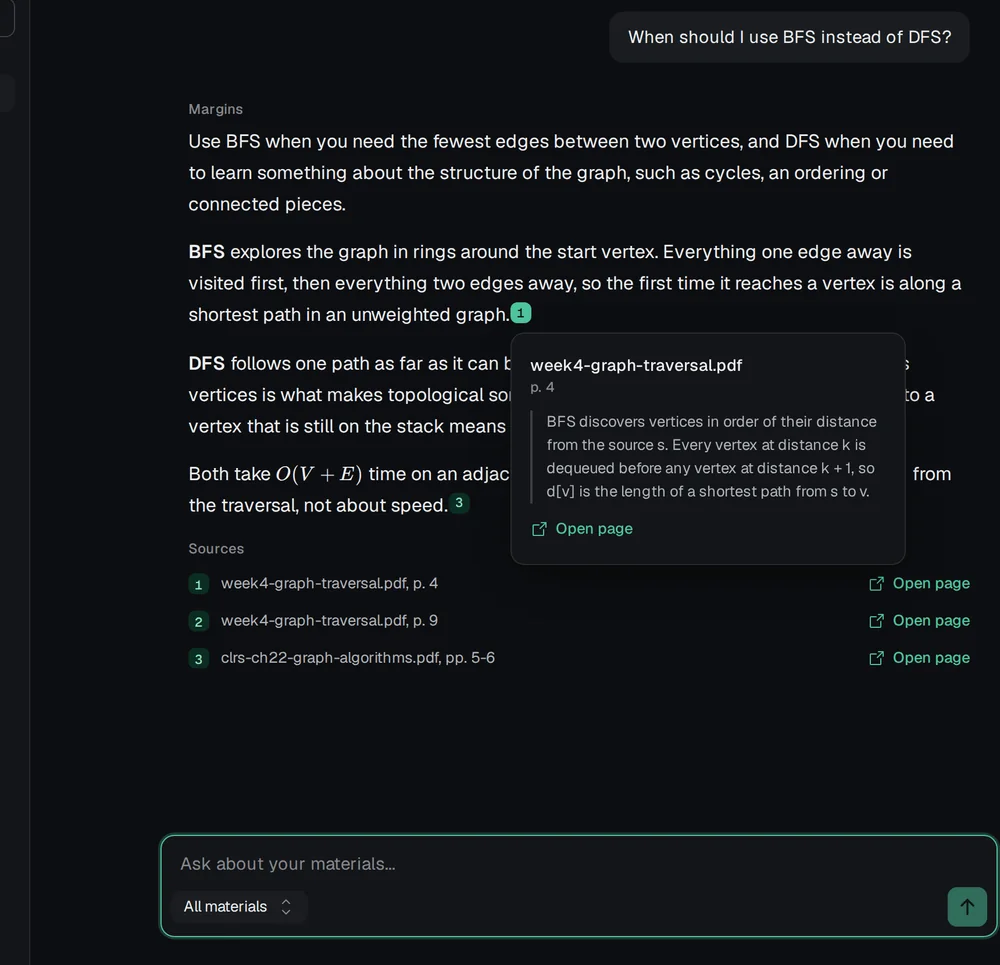
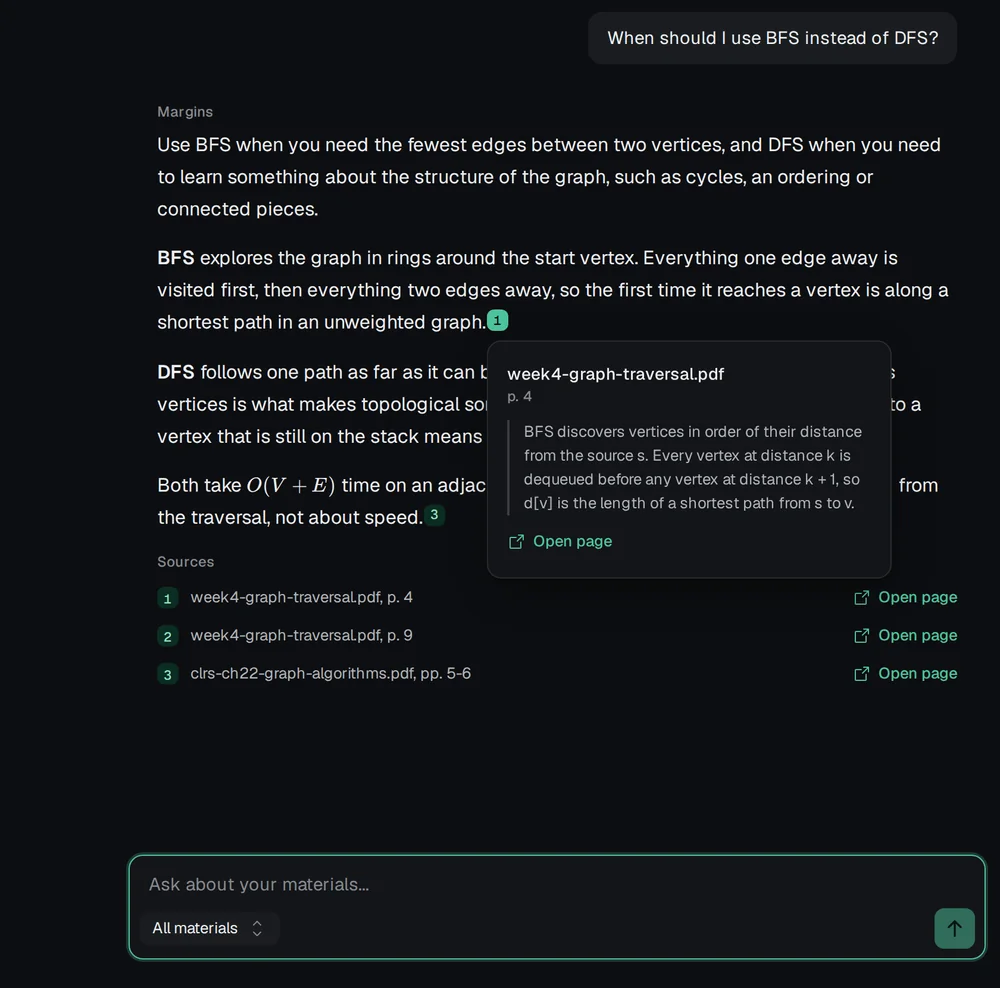
Landing spec, Ask sheet spec, lazy screenshots, font preload

diff --git a/frontend/src/app/(marketing)/page.tsx b/frontend/src/app/(marketing)/page.tsx
@@ -2,6 +2,7 @@ import type { Metadata } from 'next'
 import { BRAND_NAME } from '@/config/brand'
 import { DEFAULT_DESCRIPTION, SITE_URL } from '@/config/site'
 import { FinalCta, HeroActions } from '@/features/marketing/auth-actions'
+import { LazyMount } from '@/features/marketing/lazy-mount'
 import { ThemedImage } from '@/features/marketing/themed-image'
 import '@/features/marketing/landing.css'
 
@@ -51,9 +52,10 @@ function Hero() {
               width={1600}
               height={1000}
               priority
+              fetchPriority="high"
               alt="Margins notes page showing Graph traversal notes with sources"
-              sizes="(max-width: 767px) 640px, (min-width: 1440px) 960px, (min-width: 1280px) 820px, (min-width: 1024px) 700px, 100vw"
-              className="h-auto w-full max-md:w-[640px] max-md:max-w-none"
+              sizes="(min-width: 1440px) 960px, (min-width: 1280px) 820px, (min-width: 1024px) 700px, 100vw"
+              className="h-auto w-full"
             />
           </div>
         </div>
@@ -92,16 +94,16 @@ function HowItWorks() {
             </div>
             {index === 1 ? (
               <div className="md:order-1 md:col-span-7">
-                <div className="overflow-hidden rounded-card border border-border bg-surface">
+                <LazyMount className="aspect-[1100/557] overflow-hidden rounded-card border border-border bg-surface">
                   <ThemedImage
                     name="topics-edit"
                     width={1100}
                     height={557}
                     alt="Margins topic editor listing seven topics found in a course, each with keywords"
-                    sizes="(min-width: 1152px) 640px, (min-width: 768px) 55vw, 100vw"
+                    sizes="(min-width: 1152px) 640px, (min-width: 768px) 55vw, calc(100vw - 34px)"
                     className="h-auto w-full"
                   />
-                </div>
+                </LazyMount>
               </div>
             ) : null}
           </li>
@@ -140,9 +142,9 @@ function CellShot({
 }) {
   return (
     <div className="mt-auto px-6">
-      <div className={`overflow-hidden rounded-t-control border border-b-0 border-border ${heightClass}`}>
+      <LazyMount className={`overflow-hidden rounded-t-control border border-b-0 border-border ${heightClass}`}>
         <ThemedImage name={name} width={width} height={height} alt={alt} sizes={sizes} className="h-auto w-full" />
-      </div>
+      </LazyMount>
     </div>
   )
 }
@@ -164,7 +166,7 @@ function Bento() {
             width={1200}
             height={842}
             alt="Margins notes with a Python code block, an outline of the page and a list of source files"
-            sizes="(min-width: 1152px) 560px, (min-width: 768px) 55vw, 100vw"
+            sizes="(min-width: 1152px) 560px, (min-width: 768px) 55vw, calc(100vw - 82px)"
             heightClass="h-[260px] md:h-[330px]"
           />
         </div>
@@ -175,7 +177,7 @@ function Bento() {
             width={1000}
             height={878}
             alt="Margins practice problem with two solved steps, a hint and an answer box"
-            sizes="(min-width: 1152px) 400px, (min-width: 768px) 40vw, 100vw"
+            sizes="(min-width: 1152px) 400px, (min-width: 768px) 40vw, calc(100vw - 82px)"
             heightClass="h-[260px] md:h-[330px]"
           />
         </div>
@@ -186,7 +188,7 @@ function Bento() {
             width={1000}
             height={885}
             alt="Margins quiz results showing 75 percent, 9 of 12 points, with the answer and explanation for a missed question"
-            sizes="(min-width: 1152px) 400px, (min-width: 768px) 40vw, 100vw"
+            sizes="(min-width: 1152px) 400px, (min-width: 768px) 40vw, calc(100vw - 82px)"
             heightClass="h-[260px] md:h-[360px]"
           />
         </div>
@@ -195,9 +197,9 @@ function Bento() {
           <CellShot
             name="ask"
             width={1000}
-            height={965}
+            height={988}
             alt="Margins answer about BFS and DFS with a citation card showing the quoted passage and its page"
-            sizes="(min-width: 1152px) 560px, (min-width: 768px) 55vw, 100vw"
+            sizes="(min-width: 1152px) 560px, (min-width: 768px) 55vw, calc(100vw - 82px)"
             heightClass="h-[260px] md:h-[360px]"
           />
         </div>
@@ -208,12 +210,14 @@ function Bento() {
               Pick your topics and a time limit, then sit the exam under real conditions. Answers save as you go.
             </p>
           </div>
-          <p
-            aria-hidden="true"
-            className="tabular font-mono text-[72px] font-medium leading-none tracking-[-0.04em] text-accent-soft-fg md:text-[112px]"
-          >
-            41:07
-          </p>
+          <LazyMount className="h-[72px] shrink-0 md:h-[112px] md:w-[400px]">
+            <p
+              aria-hidden="true"
+              className="tabular font-mono text-[72px] font-medium leading-none tracking-[-0.04em] text-accent-soft-fg md:text-right md:text-[112px]"
+            >
+              41:07
+            </p>
+          </LazyMount>
         </div>
       </div>
     </section>

diff --git a/frontend/tests/e2e/landing.spec.ts b/frontend/tests/e2e/landing.spec.ts
@@ -1,0 +1,81 @@
+import { expect, test } from '@playwright/test'
+
+test('the landing page tells the story with real screenshots', async ({ page }) => {
+  const errors: string[] = []
+  page.on('pageerror', (error) => errors.push(error.message))
+  await page.goto('/')
+
+  await expect(page.getByRole('heading', { level: 1, name: 'Turn your course files into a study plan.' })).toBeVisible()
+  await expect(page.getByRole('navigation', { name: 'Account' }).getByRole('link', { name: 'Get started' })).toHaveAttribute('href', '/signup')
+  await expect(page.getByRole('navigation', { name: 'Account' }).getByRole('link', { name: 'Sign in' })).toHaveAttribute('href', '/login')
+
+  // Sections in order, each with its heading.
+  for (const name of ['How it works', 'What you get', 'Explain it out loud', 'Start with one course.']) {
+    await page.getByRole('heading', { level: 2, name }).scrollIntoViewIfNeeded()
+    await expect(page.getByRole('heading', { level: 2, name })).toBeVisible()
+  }
+  await expect(page.getByText('Your files stay in your account. Delete a course and its files go with it.')).toBeVisible()
+
+  // The five bento cells and the three steps.
+  for (const name of [
+    'Notes with sources',
+    'Practice that checks each step',
+    'Quizzes graded with feedback',
+    'Ask your materials, with citations',
+    'Mock exams with a real timer',
+  ]) {
+    await expect(page.getByRole('heading', { level: 3, name })).toBeVisible()
+  }
+  await expect(page.getByRole('listitem').filter({ hasText: 'Upload your materials' })).toBeVisible()
+
+  // Every visible screenshot has loaded, has alt text, and none overflows the page sideways.
+  await page.evaluate(async () => {
+    for (let y = 0; y < document.body.scrollHeight; y += 500) {
+      window.scrollTo(0, y)
+      await new Promise((resolve) => setTimeout(resolve, 80))
+    }
+  })
+  await expect
+    .poll(() =>
+      page.evaluate(() =>
+        Array.from(document.images)
+          .filter((image) => image.offsetParent !== null)
+          .every((image) => image.complete && image.naturalWidth > 0 && image.alt.length > 10)
+      )
+    )
+    .toBe(true)
+  expect(await page.evaluate(() => document.documentElement.scrollWidth - window.innerWidth)).toBeLessThanOrEqual(0)
+  expect(errors).toEqual([])
+
+  // Structured data and the canonical link are present.
+  await expect(page.locator('link[rel="canonical"]')).toHaveAttribute('href', 'https://studymargins.com/')
+  expect(await page.locator('script[type="application/ld+json"]').count()).toBe(1)
+})
+
+test('a signed-in visitor sees Open Margins instead of sign in', async ({ page }) => {
+  const stamp = Date.now()
+  const email = `landing-${stamp}@example.com`
+  const password = 'landing-test-password'
+  const signup = await page.request.post('/api/auth/signup', { data: { email, password, name: 'Landing Tester' } })
+  expect(signup.ok()).toBeTruthy()
+
+  await page.goto('/login')
+  await page.getByLabel('Email').fill(email)
+  await page.getByLabel('Password', { exact: true }).fill(password)
+  await page.getByRole('button', { name: 'Sign in' }).click()
+  await expect(page).toHaveURL(/\/home$/)
+
+  await page.goto('/')
+  await expect(page).toHaveURL(/\/$/)
+  const nav = page.getByRole('navigation', { name: 'Account' })
+  await expect(nav.getByRole('link', { name: 'Open Margins' })).toHaveAttribute('href', '/home')
+  await expect(nav.getByRole('link', { name: 'Sign in' })).toHaveCount(0)
+})
+
+test('the auth pages show the real notes screenshot', async ({ page }) => {
+  await page.setViewportSize({ width: 1440, height: 900 })
+  await page.goto('/login')
+  const image = page.locator('img[src*="notes-light"]')
+  await expect(image).toHaveCount(1)
+  await expect.poll(() => image.evaluate((node: HTMLImageElement) => node.complete && node.naturalWidth > 0)).toBe(true)
+})

diff --git a/frontend/src/features/marketing/lazy-mount.tsx b/frontend/src/features/marketing/lazy-mount.tsx
@@ -1,0 +1,43 @@
+'use client'
+
+import * as React from 'react'
+
+/**
+ * Renders its children once the box is within `rootMargin` of the viewport. Used for screenshots
+ * and fonts far below the fold so that they do not compete with the first paint. The box keeps
+ * the size you give it through `className`, so nothing shifts when the children arrive.
+ */
+export function LazyMount({
+  children,
+  className,
+  rootMargin = '300px',
+}: {
+  children: React.ReactNode
+  className?: string
+  rootMargin?: string
+}) {
+  const ref = React.useRef<HTMLDivElement>(null)
+  const [shown, setShown] = React.useState(false)
+
+  React.useEffect(() => {
+    const element = ref.current
+    if (!element || shown) return
+    const observer = new IntersectionObserver(
+      (entries) => {
+        if (entries.some((entry) => entry.isIntersecting)) {
+          setShown(true)
+          observer.disconnect()
+        }
+      },
+      { rootMargin }
+    )
+    observer.observe(element)
+    return () => observer.disconnect()
+  }, [shown, rootMargin])
+
+  return (
+    <div ref={ref} className={className}>
+      {shown ? children : null}
+    </div>
+  )
+}

diff --git a/frontend/tests/e2e/topic.spec.ts b/frontend/tests/e2e/topic.spec.ts
@@ -61,7 +61,16 @@ test('the study path: write, read, practise, take a quiz', async ({ page }) => {
   await expect(page).toHaveURL(/\?view=notes$/)
   await expect(page.getByRole('heading', { level: 1, name: TOPICS[0] })).toBeVisible()
   await expect(page.getByRole('heading', { name: 'No notes yet' })).toBeVisible()
-  await expect(page.getByRole('link', { name: 'Ask about this' })).toHaveAttribute('href', `/courses/${courseId}/ask?topic=${ids[0]}`)
+  // "Ask about this" opens the Ask sheet scoped to the topic, with a link to the full page.
+  await page.getByRole('button', { name: 'Ask about this' }).click()
+  const sheet = page.getByRole('dialog', { name: 'Ask about this topic' })
+  await expect(sheet).toBeVisible()
+  await expect(sheet.getByRole('link', { name: 'Open full page' })).toHaveAttribute(
+    'href',
+    new RegExp(`/courses/${courseId}/ask\\?topic=${ids[0]}`)
+  )
+  await page.keyboard.press('Escape')
+  await expect(sheet).toBeHidden()
 
   // Write the notes through the empty state; the view fills in when the job finishes.
   await page.getByRole('button', { name: 'Write notes' }).click()

diff --git a/frontend/src/app/layout.tsx b/frontend/src/app/layout.tsx
@@ -1,11 +1,22 @@
 import type { Metadata, Viewport } from 'next'
-import { GeistMono } from 'geist/font/mono'
 import { GeistSans } from 'geist/font/sans'
+import localFont from 'next/font/local'
 import { Providers } from '@/components/shell/providers'
 import { BRAND_NAME } from '@/config/brand'
 import { SIDEBAR_INIT_SCRIPT } from '@/config/sidebar'
 import { BRAND_COLORS, DEFAULT_DESCRIPTION, DEFAULT_TITLE, SITE_URL } from '@/config/site'
 import './globals.css'
+
+// Same file and variable as `geist/font/mono`, but not preloaded: mono text (code, timers) is rare,
+// so pages should not pay for 70 KB of font before they paint.
+const GeistMono = localFont({
+  src: '../../node_modules/geist/dist/fonts/geist-mono/GeistMono-Variable.woff2',
+  variable: '--font-geist-mono',
+  preload: false,
+  adjustFontFallback: false,
+  fallback: ['ui-monospace', 'SFMono-Regular', 'Roboto Mono', 'Menlo', 'Monaco', 'Liberation Mono', 'DejaVu Sans Mono', 'Courier New', 'monospace'],
+  weight: '100 900',
+})
 
 export const metadata: Metadata = {
   metadataBase: new URL(SITE_URL),

diff --git a/frontend/src/features/marketing/auth-actions.tsx b/frontend/src/features/marketing/auth-actions.tsx
@@ -10,15 +10,24 @@ import { BRAND_NAME } from '@/config/brand'
  * Whether the visitor is signed in, read in the browser so public pages stay fully static.
  * Null until known; the pages render their signed-out buttons first.
  */
+/** One session request shared by every island on the page. */
+let sessionRequest: Promise<boolean> | null = null
+function readSignedIn(): Promise<boolean> {
+  sessionRequest ??= getSession().then((session) => !!session?.user)
+  return sessionRequest
+}
+
 function useSignedIn(): boolean | null {
   const [signedIn, setSignedIn] = React.useState<boolean | null>(null)
   React.useEffect(() => {
     let cancelled = false
-    getSession()
-      .then((session) => {
-        if (!cancelled) setSignedIn(!!session?.user)
+    readSignedIn()
+      .then((value) => {
+        if (!cancelled) setSignedIn(value)
       })
-      .catch(() => {})
+      .catch(() => {
+        sessionRequest = null
+      })
     return () => {
       cancelled = true
     }

diff --git a/frontend/src/features/marketing/themed-image.tsx b/frontend/src/features/marketing/themed-image.tsx
@@ -10,11 +10,12 @@ type ThemedImageProps = {
   sizes: string
   /** Preloads the light image (the dark one loads when it is first shown). */
   priority?: boolean
+  fetchPriority?: 'high' | 'low' | 'auto'
   className?: string
 }
 
 /** A product screenshot in the light or dark version, switched with the theme class on <html>. */
-export function ThemedImage({ name, width, height, alt, sizes, priority, className }: ThemedImageProps) {
+export function ThemedImage({ name, width, height, alt, sizes, priority, fetchPriority, className }: ThemedImageProps) {
   return (
     <>
       <Image
@@ -24,6 +25,7 @@ export function ThemedImage({ name, width, height, alt, sizes, priority, classNa
         alt={alt}
         sizes={sizes}
         priority={priority}
+        fetchPriority={fetchPriority}
         className={cn('dark:hidden', className)}
       />
       <Image
